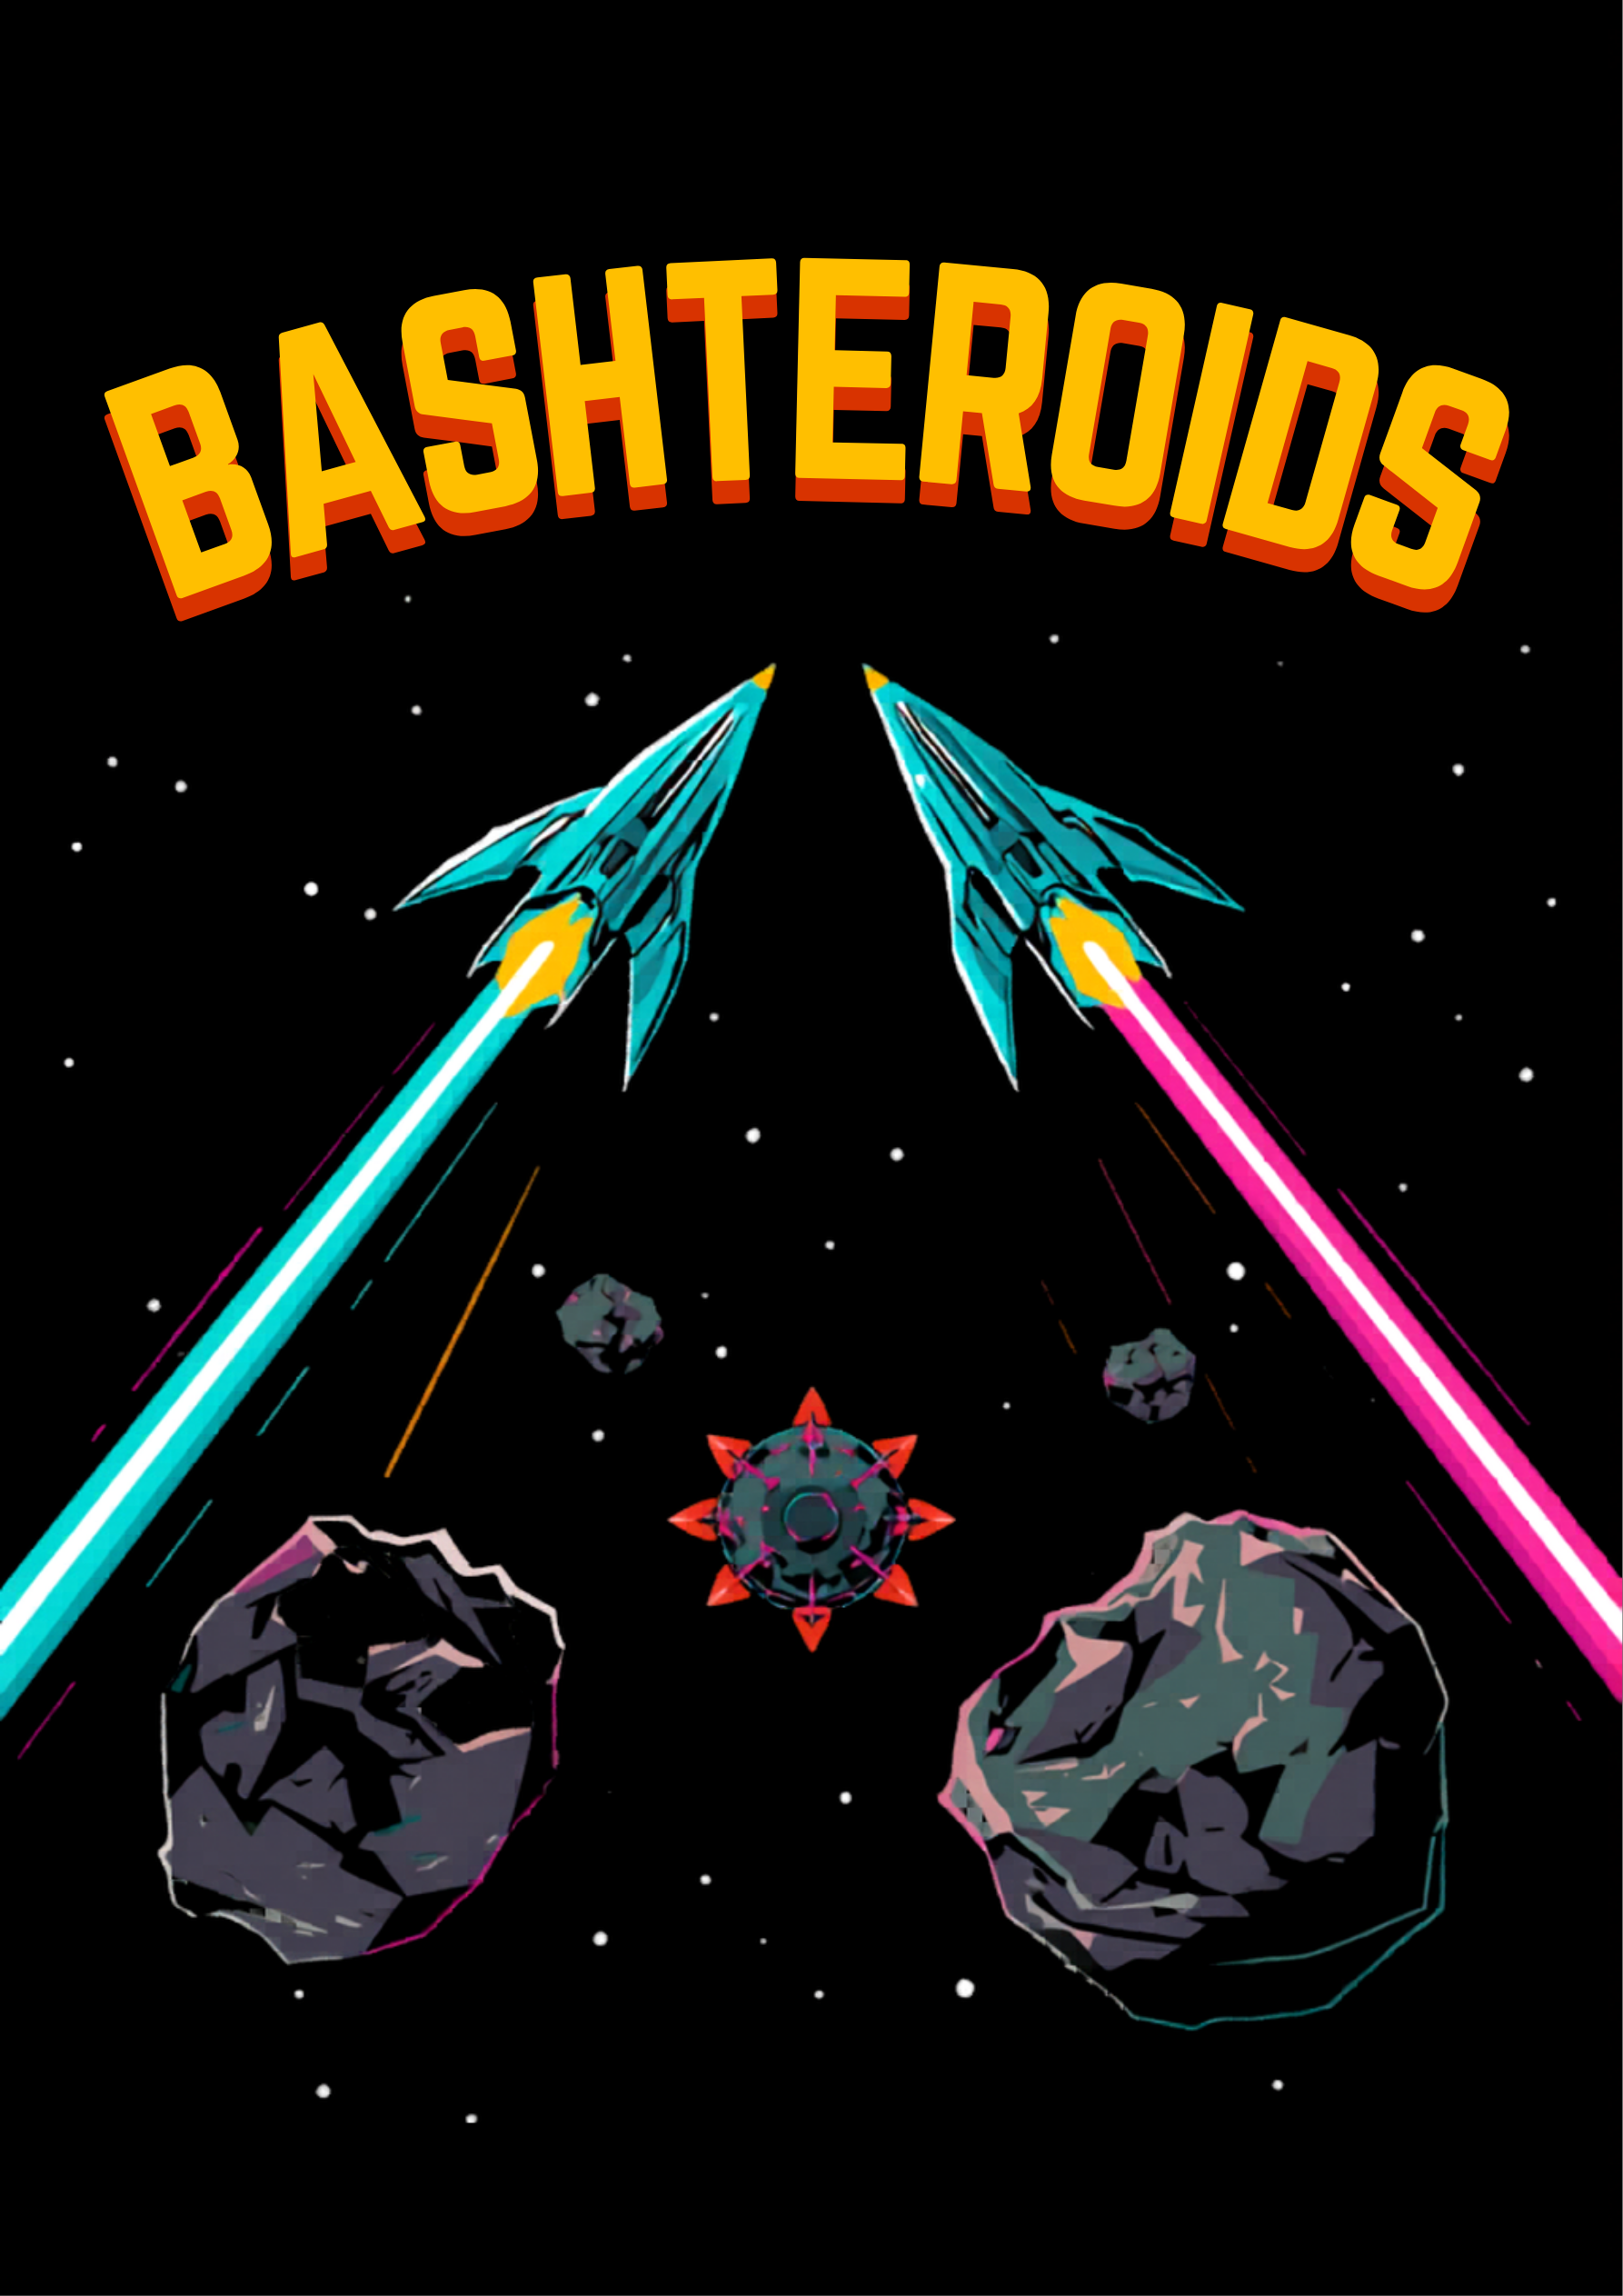
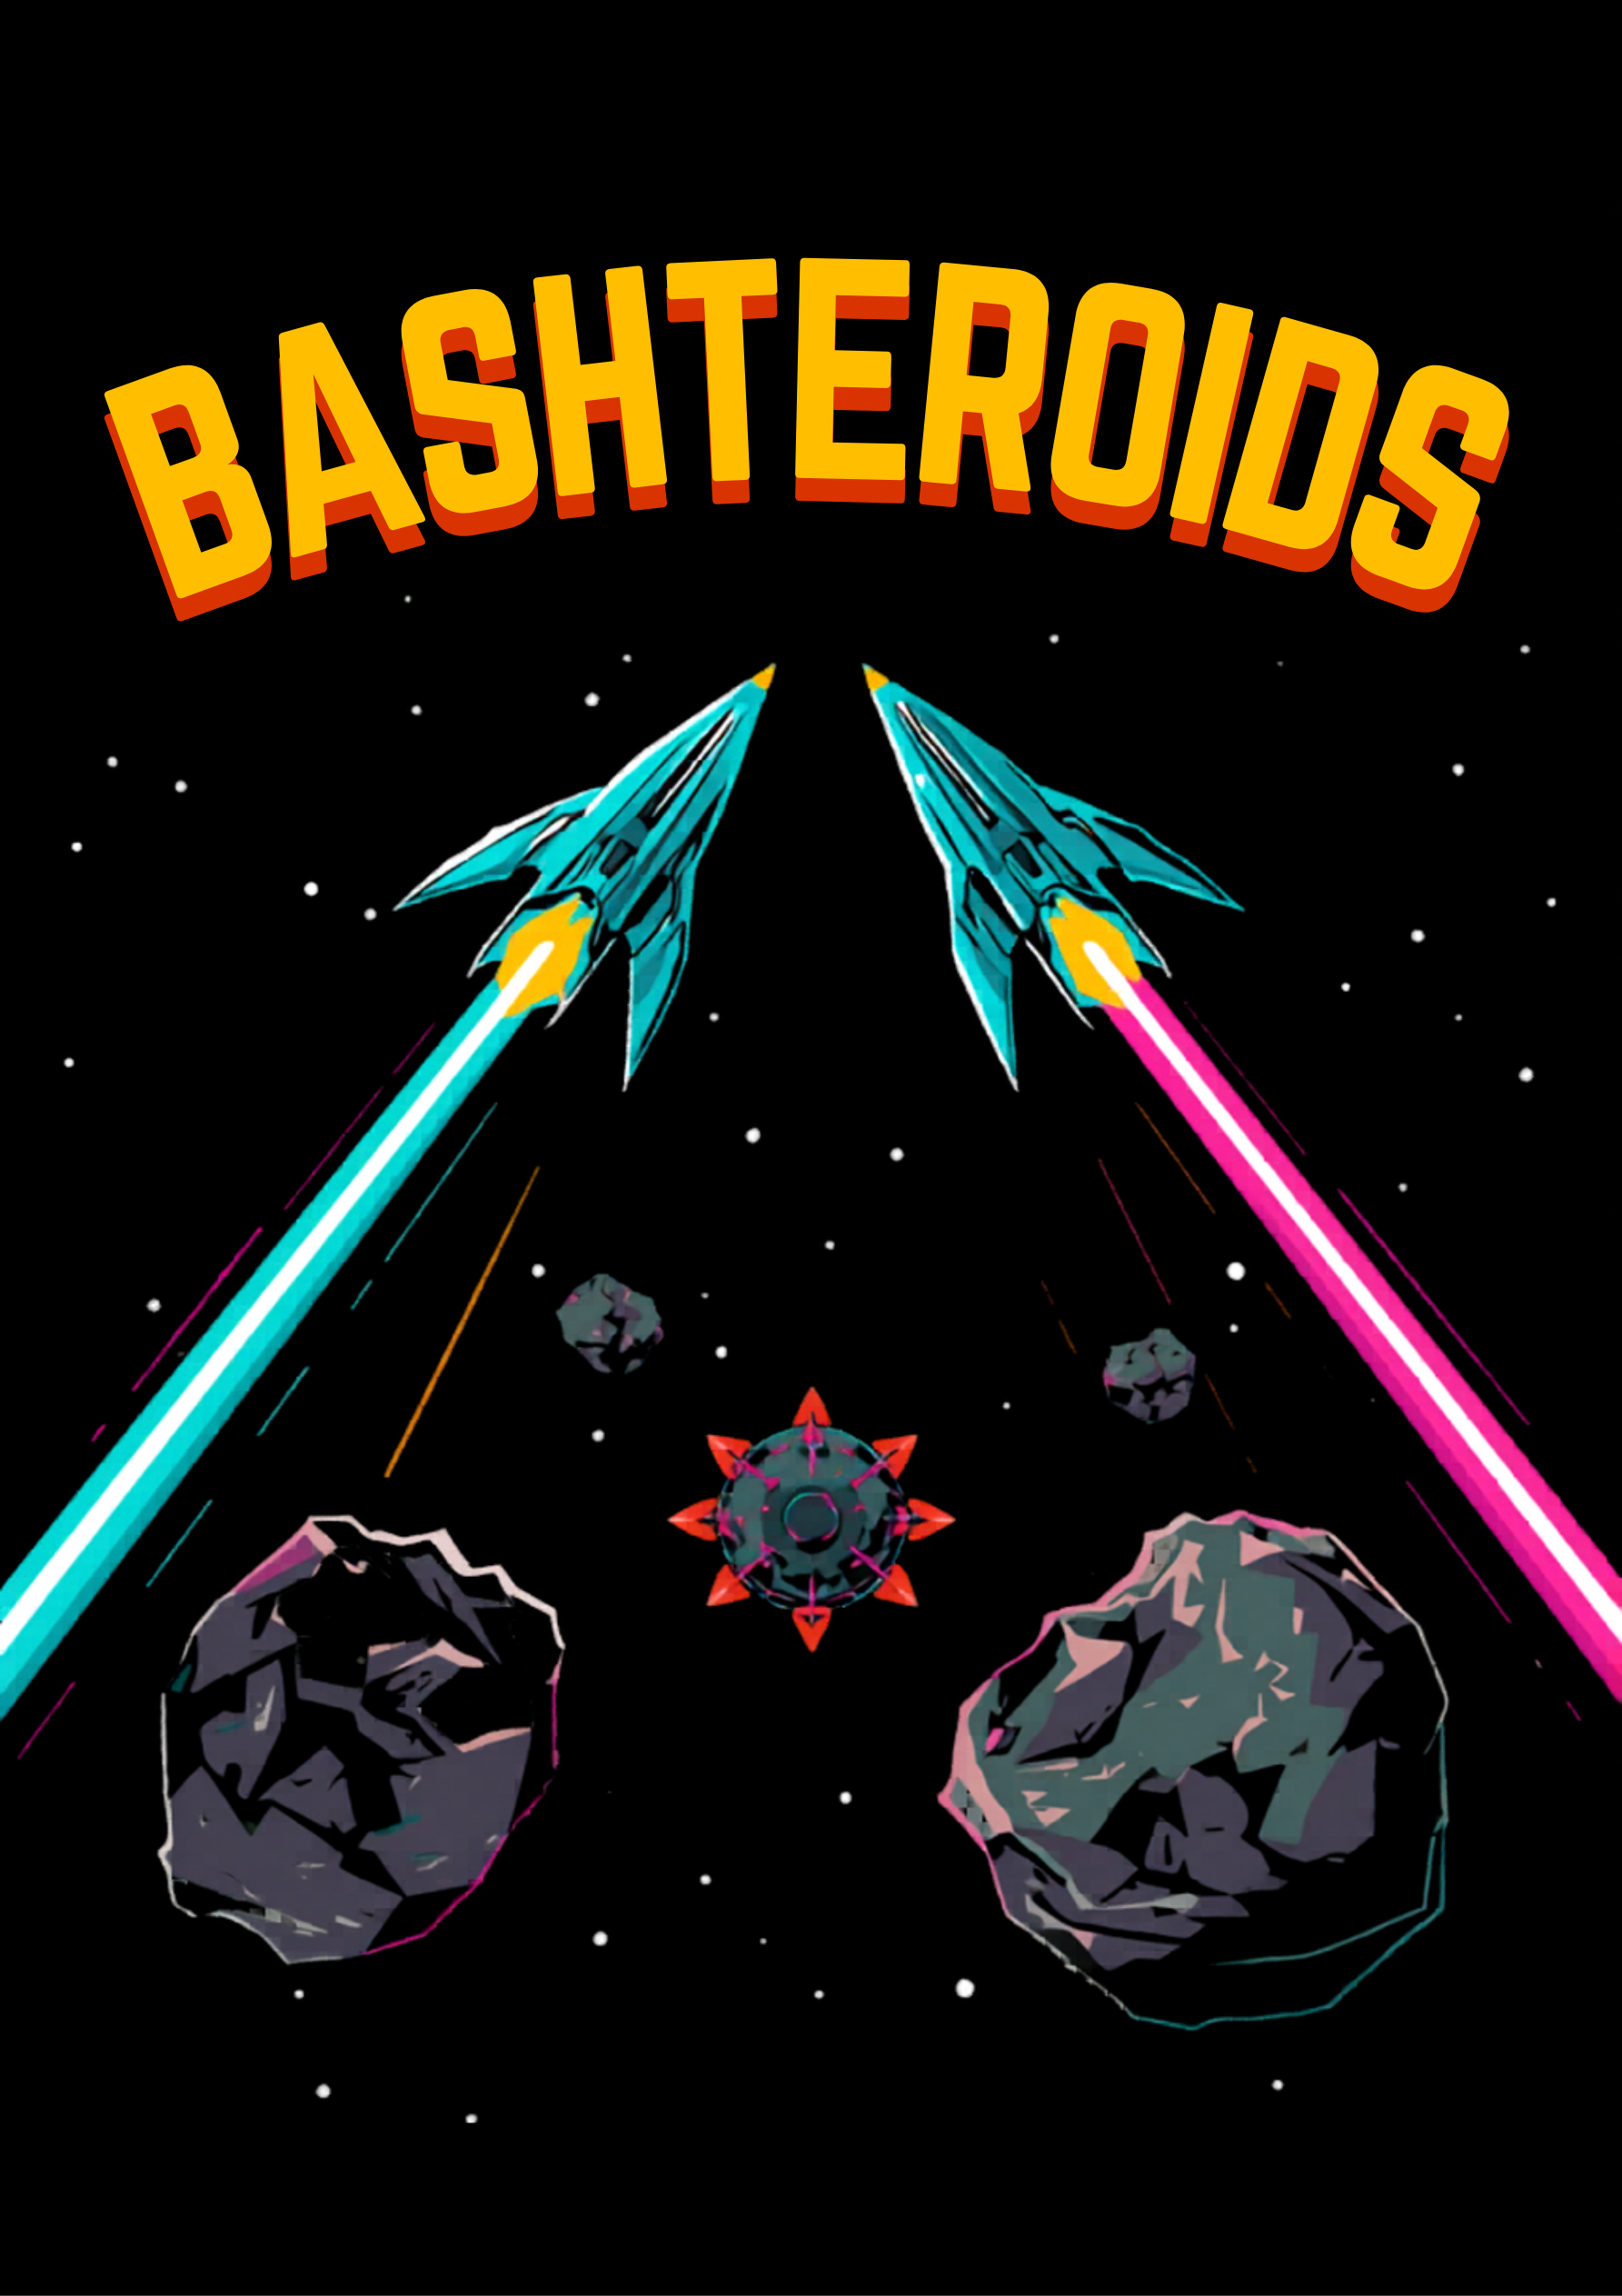
feat(polish): minelayer color, poster crop, name flow, highscore columns
Five small fixes from improvements.md:

1. Minelayer powerup + ship marker recolored from warm gray to
   magenta (0.85, 0.30, 0.75) so it no longer reads as the white
   evil mine.
2. poster.png cropped 1px on the right to remove a thin gray
   stripe (116,115,115) that read as a white border on the title
   background.
3. Keyboard player can now reopen their name editor with the A
   key (mirrors the per-slot controller-A re-edit path).
4. Controller buttonA confirms name entry while the editor is
   active. Previously controller-only setups got stuck in name
   entry forever (no keyboard to press Enter), which silently
   blocked the mode/level selectors.
5. Highscore list rendered as aligned name / level / score
   columns (left-aligned name + level, right-aligned score) at
   fixed x offsets, replacing the single-line "name LX: score"
   row.

diff --git a/Bashteroids/Scenes/TitleScene.swift b/Bashteroids/Scenes/TitleScene.swift
@@ -53,17 +53,39 @@ final class TitleScene: SKScene {
 
         let firstEntryColor  = SKColor(red: 231/255, green: 63/255,  blue: 150/255, alpha: 1)
         let otherEntryColor  = SKColor(red: 98/255,  green: 212/255, blue: 214/255, alpha: 1)
+        let nameX:  CGFloat = leaderboardX
+        let levelX: CGFloat = leaderboardX + 130
+        let scoreX: CGFloat = leaderboardX + 260
         for (i, entry) in HighScore.top.enumerated() {
-            let levelTag = entry.level.map { " L\($0)" } ?? ""
-            let row = SKLabelNode(text: "\(entry.name)\(levelTag): \(entry.score)")
-            row.fontName = "AvenirNext-Regular"
-            row.fontSize = 14
-            row.fontColor = i == 0 ? firstEntryColor : otherEntryColor
-            row.horizontalAlignmentMode = .left
-            row.verticalAlignmentMode = .top
-            row.position = CGPoint(x: leaderboardX,
-                                   y: leaderboardTopY - CGFloat(24 * (i + 1)))
-            addChild(row)
+            let y = leaderboardTopY - CGFloat(24 * (i + 1))
+            let color = i == 0 ? firstEntryColor : otherEntryColor
+
+            let nameLabel = SKLabelNode(text: entry.name)
+            nameLabel.fontName = "AvenirNext-Regular"
+            nameLabel.fontSize = 14
+            nameLabel.fontColor = color
+            nameLabel.horizontalAlignmentMode = .left
+            nameLabel.verticalAlignmentMode = .top
+            nameLabel.position = CGPoint(x: nameX, y: y)
+            addChild(nameLabel)
+
+            let levelLabel = SKLabelNode(text: entry.level.map { "L\($0)" } ?? "")
+            levelLabel.fontName = "AvenirNext-Regular"
+            levelLabel.fontSize = 14
+            levelLabel.fontColor = color
+            levelLabel.horizontalAlignmentMode = .left
+            levelLabel.verticalAlignmentMode = .top
+            levelLabel.position = CGPoint(x: levelX, y: y)
+            addChild(levelLabel)
+
+            let scoreLabel = SKLabelNode(text: "\(entry.score)")
+            scoreLabel.fontName = "AvenirNext-Regular"
+            scoreLabel.fontSize = 14
+            scoreLabel.fontColor = color
+            scoreLabel.horizontalAlignmentMode = .right
+            scoreLabel.verticalAlignmentMode = .top
+            scoreLabel.position = CGPoint(x: scoreX, y: y)
+            addChild(scoreLabel)
         }
 
         // Selectors anchored top-right, proportional to screen size.
@@ -220,10 +242,18 @@ final class TitleScene: SKScene {
                 slotAWasPressed[i] = pressed
             }
         } else {
+            // Name entry active. A rising edge of any controller's buttonA
+            // confirms the current entry — gives controller-only setups a
+            // way out of name entry without a keyboard.
             for (i, slot) in manager.slots.enumerated() {
-                slotAWasPressed[i] = slot.controller?.extendedGamepad?.buttonA.isPressed
+                let pressed = slot.controller?.extendedGamepad?.buttonA.isPressed
                     ?? slot.controller?.microGamepad?.buttonA.isPressed
                     ?? false
+                let was = slotAWasPressed[i] ?? false
+                if pressed && !was {
+                    confirmName()
+                }
+                slotAWasPressed[i] = pressed
             }
         }
 
@@ -309,6 +339,14 @@ final class TitleScene: SKScene {
             if !manager.hasKeyboardPlayer,
                manager.slots.count < ControllerManager.maxPlayers {
                 manager.claimKeyboard()
+            } else if let kbSlotIndex = manager.slots.firstIndex(where: { $0.keyboard != nil }) {
+                // Re-open name editor for the keyboard slot.
+                let current = UserDefaults.standard.string(
+                    forKey: "player_name_\(kbSlotIndex)") ?? "P\(kbSlotIndex + 1)"
+                activeNameSlot = kbSlotIndex
+                nameBuffer = current
+                manager.setJoinEnabled(false)
+                renderSlots()
             }
         case .spacebar, .returnOrEnter, .keypadEnter:
             tryStart()

diff --git a/Bashteroids/Entities/Ship.swift b/Bashteroids/Entities/Ship.swift
@@ -236,14 +236,14 @@ final class Ship: Entity {
             path.addLine(to: CGPoint(x: -8 + (r + spikeLen) * cos(a), y: (r + spikeLen) * sin(a)))
         }
         let n = SKShapeNode(path: path)
-        n.strokeColor = SKColor(white: 0.7, alpha: 1)
+        n.strokeColor = SKColor(red: 0.85, green: 0.30, blue: 0.75, alpha: 1)
         n.fillColor   = .clear
         n.lineWidth   = 1
         n.isAntialiased = true
 
         let circle = SKShapeNode(circleOfRadius: r)
         circle.position = CGPoint(x: -8, y: 0)
-        circle.strokeColor = SKColor(white: 0.7, alpha: 1)
+        circle.strokeColor = SKColor(red: 0.85, green: 0.30, blue: 0.75, alpha: 1)
         circle.fillColor   = .clear
         circle.lineWidth   = 1
         circle.isAntialiased = true

diff --git a/Bashteroids/Render/Shapes.swift b/Bashteroids/Render/Shapes.swift
@@ -211,13 +211,13 @@ enum Shapes {
             path.addLine(to: CGPoint(x: (r + spikeLen) * cos(a), y: (r + spikeLen) * sin(a)))
         }
         let container = SKShapeNode(path: path)
-        container.strokeColor = SKColor(white: 0.7, alpha: 1)
+        container.strokeColor = SKColor(red: 0.85, green: 0.30, blue: 0.75, alpha: 1)
         container.fillColor   = .clear
         container.lineWidth   = 1.5
         container.isAntialiased = true
 
         let circle = SKShapeNode(circleOfRadius: r)
-        circle.strokeColor = SKColor(white: 0.7, alpha: 1)
+        circle.strokeColor = SKColor(red: 0.85, green: 0.30, blue: 0.75, alpha: 1)
         circle.fillColor   = .clear
         circle.lineWidth   = 1.5
         circle.isAntialiased = true

diff --git a/docs/superpowers/specs/2026-05-07-polish-pack-design.md b/docs/superpowers/specs/2026-05-07-polish-pack-design.md
@@ -1,0 +1,102 @@
+# Polish Pack — Design
+
+Date: 2026-05-07
+
+## Goal
+
+Five small, independent fixes from `improvements.md`:
+
+1. Recolor the minelayer powerup so it doesn't look like the evil mine.
+2. Crop the 1-px gray stripe off the right edge of `poster.png`.
+3. Allow the keyboard player to re-edit their name.
+4. Allow controllers to confirm name entry (which currently requires a keyboard, blocking the mode/level selectors on controller-only setups).
+5. Render the highscore list as aligned name / level / score columns.
+
+## 1. Minelayer color
+
+`Shapes.minelayerPowerUp()` and `Ship.makeMinelayerMarker()` both stroke their paths with `SKColor(white: 0.7, alpha: 1)` (warm gray). This reads identically to the white mine entity — players can't tell at a glance whether a glow is the powerup or the hazard.
+
+Change both to `SKColor(red: 0.85, green: 0.30, blue: 0.75, alpha: 1)` — magenta. Distinct from shield (cyan), dual-canon (yellow), boost (orange), and the white mine.
+
+## 2. Poster border crop
+
+`graphics/poster.png` is 1786×2526 with a 1-pixel-wide gray stripe `(116, 115, 115)` running down the rightmost column at `x = 1785`. Crop 1 px off the right: `magick poster.png -crop 1785x2526+0+0 poster.png`. Apply to both copies (`graphics/poster.png` and `Bashteroids/Assets.xcassets/Splash.imageset/poster.png`).
+
+The Splash.imageset is the runtime-loaded copy — the visible artifact players see is sourced there.
+
+## 3. Keyboard player re-edit name
+
+In `TitleScene.handleKeyDown(.keyA)`, the current logic only claims a keyboard player on first press; subsequent presses do nothing for a keyboard-claimed slot.
+
+Extend the case so that when a keyboard player is already joined AND no editor is currently active, pressing `A` reopens the name editor for that keyboard slot (mirrors the per-slot controller-A polling that already works for controller players).
+
+```swift
+case .keyA:
+    if !manager.hasKeyboardPlayer,
+       manager.slots.count < ControllerManager.maxPlayers {
+        manager.claimKeyboard()
+    } else if activeNameSlot == nil,
+              let kbSlotIndex = manager.slots.firstIndex(where: { $0.keyboard != nil }) {
+        let current = UserDefaults.standard.string(forKey: "player_name_\(kbSlotIndex)")
+            ?? "P\(kbSlotIndex + 1)"
+        activeNameSlot = kbSlotIndex
+        nameBuffer = current
+        manager.setJoinEnabled(false)
+        renderSlots()
+    }
+```
+
+## 4. Controller A confirms name entry
+
+In `TitleScene.update`, the per-slot loop currently has two branches: `if !nameEntryActive` (poll for re-edit triggers) and `else` (just bookkeeping). The `else` branch ignores controller buttonA.
+
+Change the else branch so a rising edge of any controller's buttonA calls `confirmName()` (the existing keyboard-Enter path). Now controller-only players can finish name entry without typing.
+
+```swift
+} else {
+    for (i, slot) in manager.slots.enumerated() {
+        let pressed = slot.controller?.extendedGamepad?.buttonA.isPressed
+            ?? slot.controller?.microGamepad?.buttonA.isPressed
+            ?? false
+        let was = slotAWasPressed[i] ?? false
+        if pressed && !was {
+            confirmName()
+        }
+        slotAWasPressed[i] = pressed
+    }
+}
+```
+
+`confirmName()` already preserves the previous-stored name when the buffer is empty, so a controller player who joins and immediately presses A keeps their default `P1` / `P2` / etc. name without any editing.
+
+## 5. Highscore columns
+
+Currently each entry is a single label: `"\(name)\(levelTag): \(score)"`. Three problems:
+- Name length pushes the level / score visually around between rows.
+- The colon glyph is decorative and doesn't help readability.
+- No way to sort or scan visually by score / level.
+
+**Fix:** split each row into three labels at fixed x offsets, all sharing the same y. The same layout applies to the header (which becomes "HIGHSCORES" still as a single label, anchored to the leftmost column — column captions are not added).
+
+| Column | Anchor | x offset (relative to `leaderboardX`) |
+| --- | --- | --- |
+| Name | `.left` | `+ 0` |
+| Level | `.left` | `+ 130` |
+| Score | `.right` | `+ 260` |
+
+Same font / size / color rules as today (heading gold, first row magenta, others cyan).
+
+## Files affected
+
+- Modify: `Bashteroids/Render/Shapes.swift` (minelayer color)
+- Modify: `Bashteroids/Entities/Ship.swift` (minelayer marker color)
+- Modify: `graphics/poster.png` (cropped)
+- Modify: `Bashteroids/Assets.xcassets/Splash.imageset/poster.png` (cropped)
+- Modify: `Bashteroids/Scenes/TitleScene.swift` (keyboard re-edit, controller-A confirm, highscore columns)
+
+## Out of scope
+
+- Confirming name with a button OTHER than A (Y, Menu, etc.) — A is consistent with the join-and-edit metaphor.
+- Highscore column captions ("NAME / LEVEL / SCORE" header row).
+- Persisting custom column widths.
+- Touch input on iPad for re-editing names.